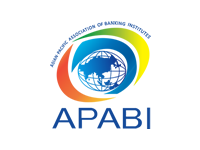
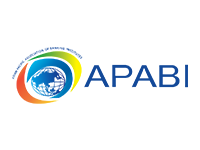
0726 fix

Changed region(s): [[0.06, 0.1333, 0.96, 0.88]]

diff --git a/tabf.org.tw.en/css/style.css b/tabf.org.tw.en/css/style.css
@@ -1798,7 +1798,9 @@ footer nav+.row {
 
 @media (max-width:1199px) {
     .page-content .container {
-        max-width: 100%;
+        max-width: 100%;        
+        padding-left: 25px;
+        padding-right: 25px;
     }
 }
 
@@ -1806,7 +1808,6 @@ footer nav+.row {
     .page-content {
         padding-top: 1rem;
     }
-
     .page-content h2 {
         border-bottom: var(--normalColor) solid 1.5px;
         padding-bottom: 10px;
@@ -1880,6 +1881,36 @@ article img {
         width: 100vw;
         margin-left: calc(-50vw + 555px);
         margin-bottom: 40px;
+    }
+}
+@media (max-width:1160px) {
+    .main-content section.bg::before {
+        left: 0;
+        width: 100vw;
+        margin-left: -25px;
+    }
+}
+@media (max-width:1100px) {
+    .main-content section.bg {
+        margin: 30px -25px 0 -25px;
+        padding: 25px;
+    }
+    .main-content section {
+        padding-bottom: 0;
+    }
+    article section+section {
+        margin-top: 1rem;
+    }
+}
+@media (max-width:768px) {
+    .main-content section.bg {
+        padding: 40px;
+    }
+    .main-content section.card {
+        margin-top: -3rem;
+    }
+    article {
+        padding-bottom: 1rem;
     }
 }
 
@@ -2022,7 +2053,6 @@ figcaption {
         margin-left: calc(-50vw + 355px);
     }
 
-
 }
 
 
@@ -2060,8 +2090,14 @@ figcaption {
     .image-left {
         margin-bottom: 40px;
     }
+    article .col2 div:first-child.img {
+        padding: 0 30px;
+    }
+    .main-content section.card {
+        margin-top: -3rem;
+        padding: 20px;
+    }
 }
-
 @media (max-width:1100px) {
     .main-content section.bg::before {
         display: none;
@@ -2071,7 +2107,11 @@ figcaption {
         background: #f9f9f9;
     }
 }
-
+@media (max-width:991px) {
+    .main-content section.card {
+        margin-top: 5rem;
+    }
+}
 @media (max-width:768px) {
     article section {
         padding: 15px;
@@ -2158,6 +2198,7 @@ figcaption {
 }
 
 .subjects-item {
+    position: relative;
     display: flex;
     align-items: center;
     background: #fff;
@@ -2168,7 +2209,6 @@ figcaption {
     margin: 10px;
     border-radius: 20px;
 }
-
 .subjects-item .img {
     display: flex;
     width: 100px;
@@ -2207,6 +2247,17 @@ figcaption {
 
     .subjects-item .img {
         width: 60px;
+    }
+    .subjects-item::before {
+        content: '';
+        display: block;
+        background: #f0e24c;
+        position: absolute;
+        left: 0;
+        height: 100%;
+        width: 60px;
+        border-radius: 20px 0 0 20px;
+        z-index: -1;
     }
 }
 
@@ -3313,6 +3364,15 @@ figcaption {
     .counter {
         font-size: 2rem;
     }
+    .impact .development-item .description>* {
+        -ms-flex: 0 0 100%;
+        flex: 0 0 100%;
+        max-width: 100%;
+    }
+    .impact .development-item .description>* {
+        border-left: none;   
+        margin-bottom: 30px;     
+    }
 }
 
 @media (max-width:600px) {
@@ -3523,6 +3583,7 @@ figcaption {
         color: #fff;
         position: absolute;
         word-break: break-word;
+        text-align: left;
     }
 
 
@@ -3530,7 +3591,8 @@ figcaption {
         border-bottom: 0;
     }
 
-    .table tbody td {
+    .table tbody td {        
+        text-align: left;
         background: #f9f9f9;
         padding-left: calc(40% + 10px);
         border-bottom: #c1c6b6 solid 1px;

diff --git a/tabf.org.tw.en/training.html b/tabf.org.tw.en/training.html
@@ -502,20 +502,19 @@
                         </section>
 
                         <section>
-                            <h3>TABF E-learning Platform: Fin Course
-                                <a class="btn btn-href" href="https://elearn.tabf.org.tw/default" target="_blank" title="https://elearn.tabf.org.tw/default">
-                                    Click here to learn more.</a>
-                                </h3>
-                            <div class="row">
-                                <div class="col-md-2 order-md-2">
-                                    <div class="img effect">
-                                        <img src="images/functions/training/training-08.png" alt="title-08">
-                                    </div>
+                            <div class="row align-items-center">
+                                <div class="col-lg-10">
+                                    <h3>TABF E-learning Platform: Fin Course
+                                        <a class="btn btn-href" href="https://elearn.tabf.org.tw/default" target="_blank" title="https://elearn.tabf.org.tw/default">
+                                            Click here to learn more.</a>
+                                        </h3>
                                 </div>
-                                <div class="col-md-10 order-md-1">
-                                    <p>TABF provides the Fin Course through video broadcast: open on-line courses for banking practitioners, with customized learning schedules and expert insights on hot issues. We have also launched an app to support mobile learning.</p>
+                                <div class="col-lg-2">
+                                    <img class="mb-lg-0 mb-3" src="images/functions/training/training-08.png" alt="title-08">
                                 </div>
                             </div>
+                            <p>TABF provides the Fin Course through video broadcast: open on-line courses for banking practitioners, with customized learning schedules and expert insights on hot issues. We have also launched an app to support mobile learning.</p>
+                            
                             <!-- <a class="btn btn-href" href="https://elearn.tabf.org.tw/default" target="_blank">https://elearn.tabf.org.tw/default</a> -->
                             <div class="img effect">
                                 <img src="images/functions/training/training-09.png" alt="title-09">

diff --git a/tabf.org.tw.en/cooperation.html b/tabf.org.tw.en/cooperation.html
@@ -296,7 +296,10 @@
                             <h3>APABI                                
                                 <a class="btn btn-href" href="https://www.apabi-net.org/" target="_blank" title="https://www.apabi-net.org/">
                                     Click here to learn more.</a>
+                                    
+                                <img class="d-md-inline ml-md-4 mt-md-0 mt-4" src="images/functions/cooperation/APABI.png" alt="APABI">
                             </h3>
+                            
                             <p>The Asian-Pacific Association of Banking Institutes (APABI) is a non-profit association founded in 1986 with 21 members in the Asia-Pacific Region. APABI equips banks and financial institutions to adapt to changing developments in the financial sector.</p>
                             <p>TABF serves as its Secretariat, coordinating meetings and conferences. APABI holds physical Member Gatherings every two years, fostering relationships among member institutes, and TABF organizes these gatherings.</p>
                             <!-- <a class="btn btn-href" href="https://fen.tabf.org.tw/Job/Default" target="_blank">https://fen.tabf.org.tw/Job/Default</a> -->
